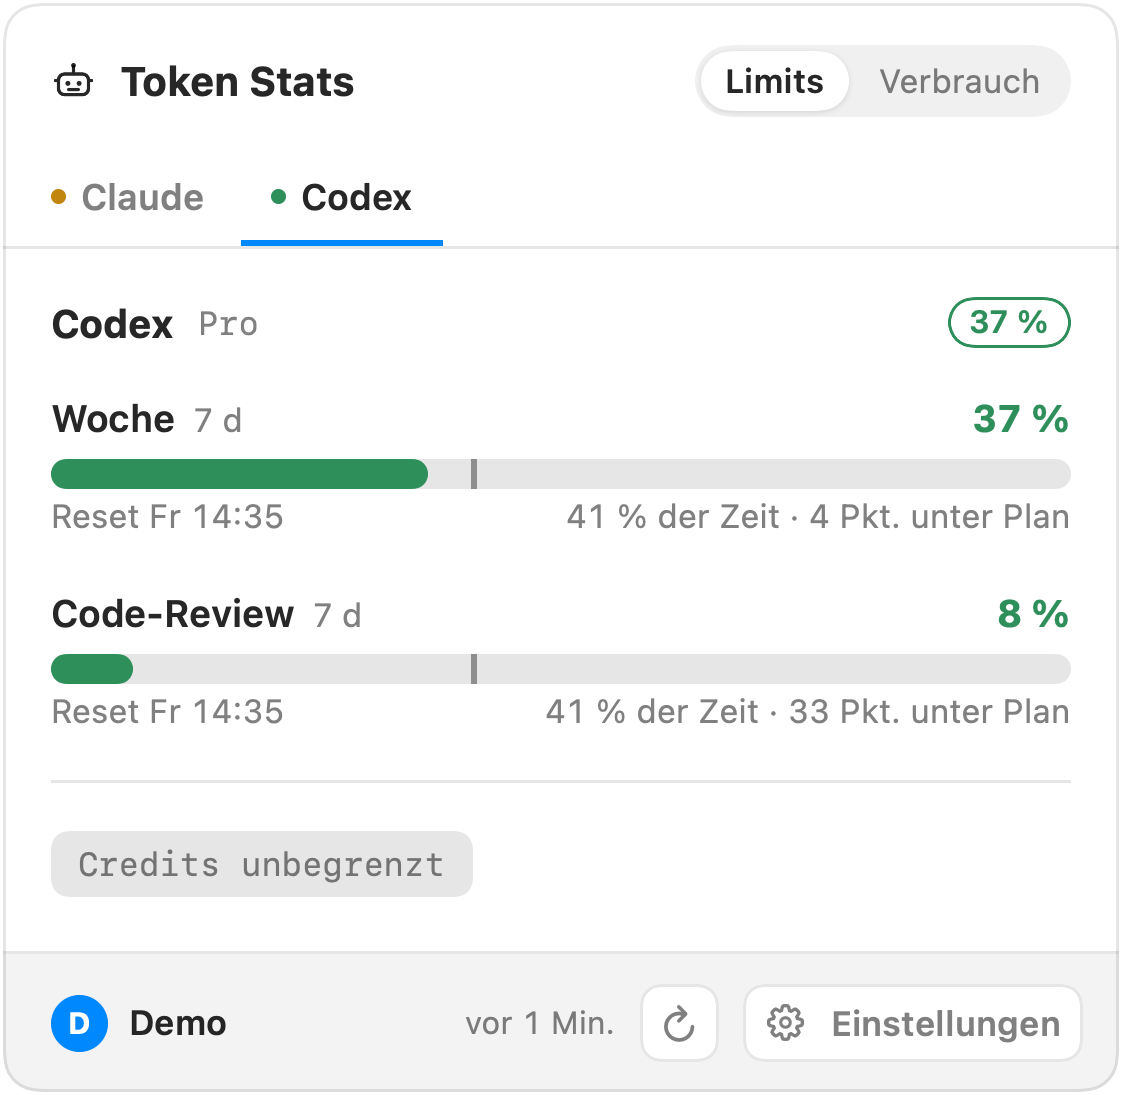
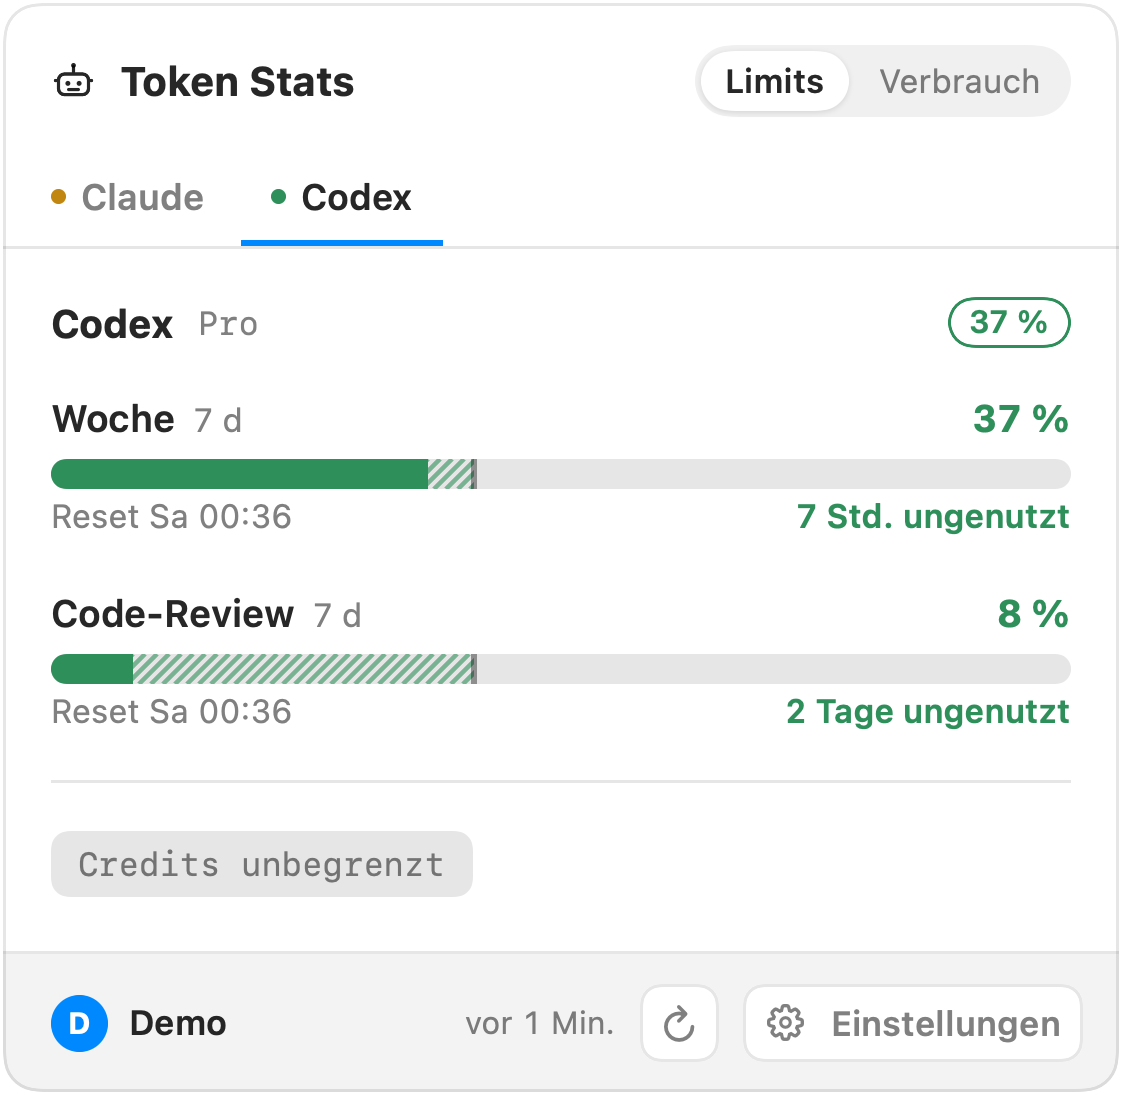
Pace als schraffierte Fläche und in Zeit statt Prozentpunkten
Der Abstand zwischen Füllstand und Pace-Marke ist jetzt schraffiert
(kräftig bei Vorgriff, blass bei ungenutztem Kontingent) und wird als
Fensterzeit ausgeschrieben: „1 Tag vorgegriffen“, „4 Tage ungenutzt“,
„im Takt“. „18 Pkt. über Plan“ war nicht greifbar und ließ sich mit dem
Abo-Plan verwechseln.

diff --git a/Sources/TokenStats/UI/PopoverView.swift b/Sources/TokenStats/UI/PopoverView.swift
@@ -355,29 +355,76 @@ private struct MeterRow: View {
                     .foregroundStyle(window.severity.color)
                     .monospacedDigit()
             }
-            GeometryReader { geo in
-                ZStack(alignment: .leading) {
-                    Capsule().fill(.quaternary)
-                    Capsule()
-                        .fill(window.severity.color)
-                        .frame(width: geo.size.width * min(max(window.percent, 0), 1))
-                    if let elapsed {
-                        Rectangle()
-                            .fill(.primary.opacity(0.45))
-                            .frame(width: 2, height: 10)
-                            .offset(x: geo.size.width * elapsed - 1)
-                    }
-                }
-            }
-            .frame(height: 6)
+            MeterBar(percent: window.percent, elapsed: elapsed, color: window.severity.color)
+                .frame(height: 6)
             HStack {
                 if let resetsAt = window.resetsAt { Text("Reset \(Format.reset(resetsAt))") }
                 Spacer()
-                if let elapsed { Text(Format.pace(percent: window.percent, elapsed: elapsed)) }
+                if let elapsed, let windowLength = window.windowLength {
+                    let onPace = abs(window.percent - elapsed) < Format.paceTolerance
+                    Text(Format.pace(percent: window.percent, elapsed: elapsed, windowLength: windowLength))
+                        .fontWeight(onPace ? .regular : .semibold)
+                        .foregroundStyle(onPace ? Color.secondary : window.severity.color)
+                }
             }
             .font(.system(size: 11))
             .foregroundStyle(.secondary)
             .monospacedDigit()
         }
+    }
+}
+
+/// Balken mit Pace-Marke; der Abstand zwischen Füllstand und Marke ist schraffiert (SPEC §3.4):
+/// kräftig, wenn der Verbrauch der Zeit voraus ist, blass, wenn Kontingent liegen bleibt.
+private struct MeterBar: View {
+    let percent: Double
+    let elapsed: Double?
+    let color: Color
+
+    var body: some View {
+        GeometryReader { geo in
+            let width = geo.size.width
+            let used = min(max(percent, 0), 1)
+            let showGap = elapsed.map { abs(used - $0) >= Format.paceTolerance } ?? false
+            ZStack(alignment: .leading) {
+                ZStack(alignment: .leading) {
+                    Rectangle().fill(.quaternary)
+                    Rectangle().fill(color).frame(width: width * min(used, elapsed ?? used))
+                    if let elapsed, showGap {
+                        let ahead = used > elapsed
+                        Hatch()
+                            .stroke(color, lineWidth: 1.5)
+                            .background(color.opacity(ahead ? 0.55 : 0))
+                            .opacity(ahead ? 1 : 0.6)
+                            .frame(width: width * abs(used - elapsed))
+                            .clipped()
+                            .offset(x: width * min(used, elapsed))
+                    }
+                }
+                .clipShape(Capsule())
+                if let elapsed {
+                    Rectangle()
+                        .fill(.primary.opacity(0.45))
+                        .frame(width: 2, height: 10)
+                        .offset(x: width * elapsed - 1)
+                }
+            }
+        }
+    }
+}
+
+/// Diagonale Schraffur für die Pace-Fläche.
+private struct Hatch: Shape {
+    var spacing: CGFloat = 4
+
+    func path(in rect: CGRect) -> Path {
+        var path = Path()
+        var x = rect.minX - rect.height
+        while x < rect.maxX {
+            path.move(to: CGPoint(x: x, y: rect.maxY))
+            path.addLine(to: CGPoint(x: x + rect.height, y: rect.minY))
+            x += spacing
+        }
+        return path
     }
 }

diff --git a/Sources/TokenStats/Model/Format.swift b/Sources/TokenStats/Model/Format.swift
@@ -70,14 +70,25 @@ enum Format {
         return "vor \(hours / 24) T."
     }
 
-    /// „64 % der Zeit · 18 Pkt. über Plan“
-    static func pace(percent: Double, elapsed: Double) -> String {
-        let delta = Int(((percent - elapsed) * 100).rounded())
-        let time = "\(Int((elapsed * 100).rounded())) % der Zeit"
-        switch delta {
-        case 3...: return "\(time) · \(delta) Pkt. über Plan"
-        case ...(-3): return "\(time) · \(-delta) Pkt. unter Plan"
-        default: return "\(time) · im Plan"
-        }
+    /// Abstand zwischen Verbrauch und Pace-Marke als Zeit: „1 Tag vorgegriffen“, „4 Tage ungenutzt“,
+    /// „im Takt“ (SPEC §3.4). Zeit statt Prozentpunkten, weil sich darunter niemand etwas vorstellen kann.
+    static func pace(percent: Double, elapsed: Double, windowLength: TimeInterval) -> String {
+        let delta = percent - elapsed
+        guard abs(delta) >= paceTolerance else { return "im Takt" }
+        let span = duration(abs(delta) * windowLength)
+        return delta > 0 ? "\(span) vorgegriffen" : "\(span) ungenutzt"
+    }
+
+    /// Abweichung von der Pace-Marke, ab der sie als Fläche und Text erscheint.
+    static let paceTolerance = 0.03
+
+    /// „40 Min.“, „5 Std.“, „1 Tag“, „4 Tage“ – bewusst grob, es geht um die Größenordnung.
+    static func duration(_ seconds: TimeInterval) -> String {
+        let minutes = seconds / 60
+        if minutes < 90 { return "\(max(1, Int(minutes.rounded()))) Min." }
+        let hours = minutes / 60
+        if hours < 24 { return "\(Int(hours.rounded())) Std." }
+        let days = Int((hours / 24).rounded())
+        return days == 1 ? "1 Tag" : "\(days) Tage"
     }
 }

diff --git a/Tests/TokenStatsTests/ParserTests.swift b/Tests/TokenStatsTests/ParserTests.swift
@@ -90,9 +90,14 @@ import Testing
     }
 
     @Test func paceText() {
-        #expect(Format.pace(percent: 0.82, elapsed: 0.64) == "64 % der Zeit · 18 Pkt. über Plan")
-        #expect(Format.pace(percent: 0.41, elapsed: 0.58) == "58 % der Zeit · 17 Pkt. unter Plan")
-        #expect(Format.pace(percent: 0.50, elapsed: 0.51) == "51 % der Zeit · im Plan")
+        let week: TimeInterval = 7 * 24 * 3600
+        let session: TimeInterval = 5 * 3600
+        #expect(Format.pace(percent: 0.82, elapsed: 0.64, windowLength: week) == "1 Tag vorgegriffen")
+        #expect(Format.pace(percent: 0.11, elapsed: 0.70, windowLength: week) == "4 Tage ungenutzt")
+        #expect(Format.pace(percent: 0.50, elapsed: 0.51, windowLength: week) == "im Takt")
+        #expect(Format.pace(percent: 0.60, elapsed: 0.42, windowLength: session) == "54 Min. vorgegriffen")
+        #expect(Format.pace(percent: 0.20, elapsed: 0.80, windowLength: session) == "3 Std. ungenutzt")
+        #expect(Format.pace(percent: 0.30, elapsed: 0.40, windowLength: week) == "17 Std. ungenutzt")
     }
 
     @Test func elapsedFraction() {

diff --git a/Sources/TokenStats/App/Screenshots.swift b/Sources/TokenStats/App/Screenshots.swift
@@ -112,7 +112,7 @@ struct Screenshots {
 
     // MARK: Demo-Werte
 
-    /// Ein Stand, der alle Zustände zeigt: grün, gelb, Pace-Marke über Plan.
+    /// Ein Stand, der alle Zustände zeigt: grün, gelb, Pace vorgegriffen, ungenutzt und im Takt.
     static func demoSnapshots(now: Date) -> [String: ProviderSnapshot] {
         let hour: TimeInterval = 3600
         let week = 7 * 24 * hour

diff --git a/SPEC.md b/SPEC.md
@@ -78,14 +78,22 @@ Je Limit eine Meter-Zeile:
 
 ```
 Woche  7 d, alle Modelle                      82 %
-[███████████████████░░░░░░░]   ← Pace-Marke bei 64 %
-Reset Mi 09:00          64 % der Zeit · 18 Pkt. über Plan
+[██████████████▒▒▒▒░░░░░░░░]   ← Pace-Marke bei 64 %, ▒ = schraffierte Differenz
+Reset Mi 09:00                      1 Tag vorgegriffen
 ```
 
 - Balken 6 pt hoch, Füllfarbe = Zustandsfarbe.
 - **Pace-Marke:** dünne senkrechte Marke an der Position „Anteil der verstrichenen
-  Fensterzeit“. Füllstand rechts davon = zu schneller Verbrauch. Zusätzlich als Text
-  („64 % der Zeit · 18 Pkt. über Plan“).
+  Fensterzeit“, also dort, wo man bei gleichmäßigem Verbrauch stünde.
+- **Differenz als Fläche:** Der Abstand zwischen Füllstand und Marke ist schraffiert —
+  kräftig, wenn der Verbrauch der Zeit voraus ist, blass, wenn Kontingent liegen bleibt.
+  Unter 3 Prozentpunkten Abstand keine Fläche.
+- **Differenz als Zeit:** Der Text rechnet den Abstand in Fensterzeit um: „1 Tag
+  vorgegriffen“, „4 Tage ungenutzt“, „54 Min. vorgegriffen“, sonst „im Takt“. Vorher stand
+  dort „64 % der Zeit · 18 Pkt. über Plan“; unter Prozentpunkten konnte sich niemand etwas
+  vorstellen, und „Plan“ ließ sich mit dem Abo-Plan in der Kopfzeile verwechseln. Eine
+  Hochrechnung („leer ab Mo 20 Uhr“) wurde verworfen, weil sie kurz nach dem Reset stark
+  schwankt. Entwürfe: https://claude.ai/artifact/5HkPZTH2jxgkE21x1gvLdi
 - Reset-Zeit als Uhrzeit bzw. Wochentag + Uhrzeit, nicht als Countdown.
 - Zeilen für Claude: Session 5 h · Woche 7 d · Opus · Sonnet.
 - Darunter Pills für Beträge und Kleinwerte: `Extra 12,40 $ / 50 $`, `Guthaben 7,10 $`,

diff --git a/README.md b/README.md
@@ -36,8 +36,8 @@ keine Cloud, keine Telemetrie.
 - **Ein Tab je Anbieter**, nach Dringlichkeit sortiert: Der knappste Anbieter steht
   links und ist beim Öffnen aktiv. Der Statuspunkt am Tab zeigt den Zustand ohne Klick.
 - **Meter je Limit** mit Reset-Zeit und **Pace-Marke**: Die senkrechte Marke steht dort,
-  wo du bei gleichmäßigem Verbrauch sein solltest. Darunter im Klartext, z. B.
-  `63 % der Zeit · 19 Pkt. über Plan`.
+  wo du bei gleichmäßigem Verbrauch wärst. Der Abstand dazu ist schraffiert und darunter
+  in Zeit umgerechnet, z. B. `1 Tag vorgegriffen` oder `4 Tage ungenutzt`.
 - **Verbrauch** für Heute, 7 Tage, 30 Tage oder den Abrechnungsmonat: Tokens mit
   getrennt ausgewiesenem Cache-Anteil, Tagesdiagramm und Aufschlüsselung je Modell.
 - **API-Vergleichswert** aus Tokenzahl × Listenpreis, mit mitgelieferter Preistabelle.
